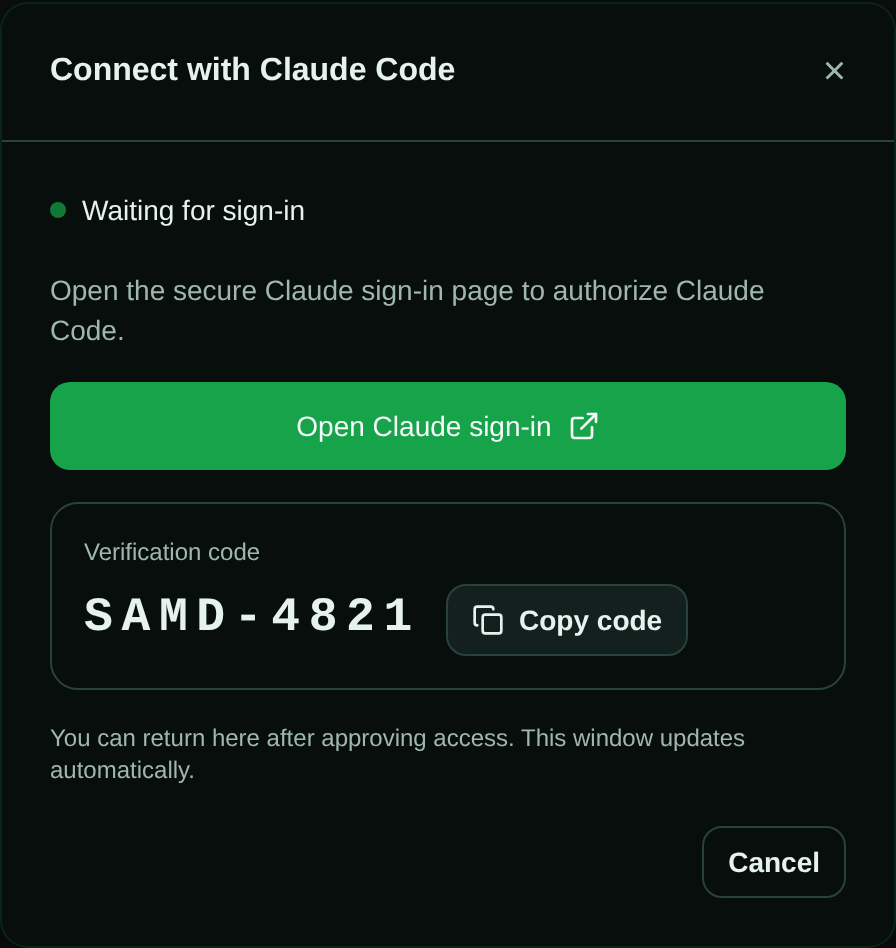
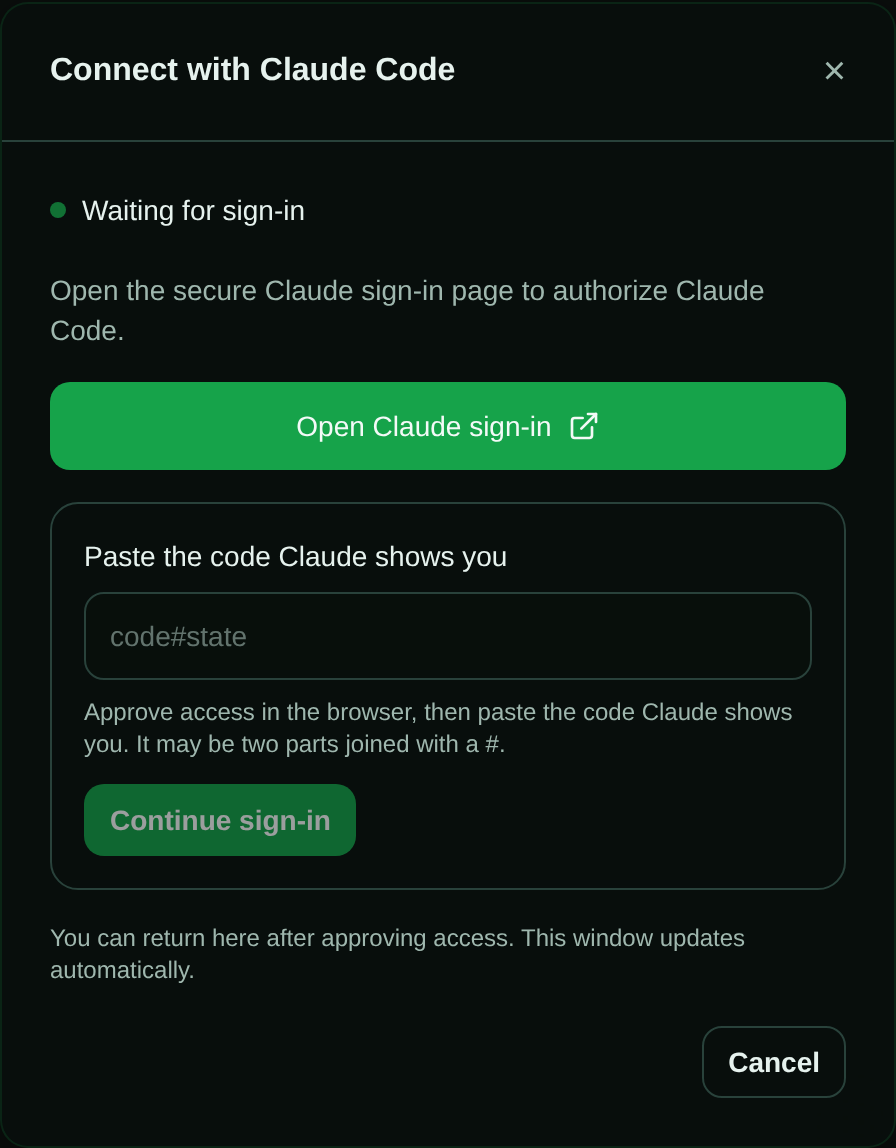
fix: refresh Claude guided login after main drift

diff --git a/apps/api/tests/unit/durable-objects/credential-setup-session.test.ts b/apps/api/tests/unit/durable-objects/credential-setup-session.test.ts
@@ -259,14 +259,14 @@ function createFakeSandbox() {
 }
 
 // eslint-disable-next-line @typescript-eslint/no-explicit-any
-function createDO(): {
+function createDO(envOverrides: Partial<Env> = {}): {
   instance: InstanceType<typeof CredentialSetupSession>;
   ctx: any;
   database: ReturnType<typeof createFakeDatabase>;
 } {
   const ctx = createFakeCtx();
   const database = createFakeDatabase();
-  const env = { DATABASE: database } as unknown as Env;
+  const env = { DATABASE: database, ...envOverrides } as unknown as Env;
   // eslint-disable-next-line @typescript-eslint/no-explicit-any
   const instance = new CredentialSetupSession(ctx as any, env);
   return { instance, ctx, database };
@@ -424,7 +424,11 @@ describe('CredentialSetupSession — alarm() provisioning step', () => {
   });
 
   it('provisions Claude Code with an isolated CLAUDE_CONFIG_DIR and optional code', async () => {
-    const { instance } = createDO();
+    const { instance } = createDO({
+      CLAUDE_SETUP_ENTER_DELAY_MS: '1100',
+      CLAUDE_SETUP_EXCHANGE_TIMEOUT_MS: '125000',
+      CLAUDE_SETUP_REJECTION_SETTLE_MS: '450',
+    });
     await Promise.resolve();
     const fakeSandbox = createFakeSandbox();
     fakeSandbox.readFile.mockImplementation(async (path: string) => ({
@@ -460,6 +464,12 @@ describe('CredentialSetupSession — alarm() provisioning step', () => {
     );
     expect(fakeSandbox.exec).toHaveBeenCalledWith(
       expect.stringContaining('sam-claude-setup-token.mjs'),
+      expect.objectContaining({ timeout: expect.any(Number) })
+    );
+    expect(fakeSandbox.exec).toHaveBeenCalledWith(
+      expect.stringContaining(
+        "CLAUDE_SETUP_ENTER_DELAY_MS='1100' CLAUDE_SETUP_EXCHANGE_TIMEOUT_MS='125000' CLAUDE_SETUP_REJECTION_SETTLE_MS='450'"
+      ),
       expect.objectContaining({ timeout: expect.any(Number) })
     );
 

diff --git a/apps/api/src/durable-objects/credential-setup-session/index.ts b/apps/api/src/durable-objects/credential-setup-session/index.ts
@@ -5,7 +5,7 @@
  * One DO per setup session (keyed by the session id, which is ALSO the sandbox
  * id — 1:1, never shared across users). The DO owns the lifecycle state machine:
  *
- *   creating -> provisioning -> waiting_for_user -> capturing -> saving
+ *   creating -> provisioning -> admitting -> waiting_for_user -> exchanging -> capturing -> saving
  *            -> completed | failed | cancelled | expired
  *
  * It provisions a per-session credential home, starts the provider setup driver,
@@ -460,10 +460,13 @@ export class CredentialSetupSession extends DurableObject<Env> {
       const exchangeTimeoutEnv = this.env.CLAUDE_SETUP_EXCHANGE_TIMEOUT_MS
         ? ` CLAUDE_SETUP_EXCHANGE_TIMEOUT_MS=${shellQuote(this.env.CLAUDE_SETUP_EXCHANGE_TIMEOUT_MS)}`
         : '';
+      const rejectionSettleEnv = this.env.CLAUDE_SETUP_REJECTION_SETTLE_MS
+        ? ` CLAUDE_SETUP_REJECTION_SETTLE_MS=${shellQuote(this.env.CLAUDE_SETUP_REJECTION_SETTLE_MS)}`
+        : '';
       return (
         `nohup env CLAUDE_CONFIG_DIR=${shellQuote(row.codex_home)} ` +
         'DISABLE_AUTOUPDATER=1 NO_COLOR=1 TERM=dumb' +
-        `${enterDelayEnv}${exchangeTimeoutEnv} ` +
+        `${enterDelayEnv}${exchangeTimeoutEnv}${rejectionSettleEnv} ` +
         `node /usr/local/bin/sam-claude-setup-token.mjs ${shellQuote(statePath)} ` +
         `${shellQuote(credentialPath)} ${shellQuote(verificationCodePath)} >/dev/null 2>&1 &`
       );

diff --git a/apps/web/tests/playwright/docs-screenshots.spec.ts b/apps/web/tests/playwright/docs-screenshots.spec.ts
@@ -74,8 +74,8 @@ const SETUP_SESSION = {
   status: 'waiting_for_user',
   agentType: 'claude-code',
   expiresAt: new Date(Date.now() + 1_200_000).toISOString(),
-  verificationUrl: 'https://claude.ai/oauth/device?client_id=sam-docs&code=' + 'x'.repeat(48),
-  userCode: 'SAMD-4821',
+  verificationUrl: 'https://claude.ai/oauth/device?client_id=sam-docs&challenge=' + 'x'.repeat(48),
+  userCode: null,
   errorCode: null,
   errorMessage: null,
 };
@@ -125,8 +125,8 @@ test('docs: guided subscription sign-in modal (Claude Code)', async ({ page }) =
 
   const dialog = page.getByRole('dialog', { name: 'Connect with Claude Code' });
   await expect(dialog.getByRole('link', { name: 'Open Claude sign-in' })).toBeVisible();
-  await expect(dialog.locator('code')).toHaveText(SETUP_SESSION.userCode);
-  await expect(dialog.getByRole('button', { name: 'Copy code' })).toBeVisible();
+  await expect(dialog.getByLabel('Paste the code Claude shows you')).toBeVisible();
+  await expect(dialog.getByRole('button', { name: 'Continue sign-in' })).toBeDisabled();
 
   // Make the backdrop fully opaque so the settings page behind the modal does not
   // bleed through the card's rounded corners in the docs screenshot.

diff --git a/apps/api/src/env.ts b/apps/api/src/env.ts
@@ -140,6 +140,7 @@ export interface Env extends WebhookTriggerEnv, TaskRecoveryEnv {
   CODEX_DEVICE_AUTH_REQUEST_TIMEOUT_MS?: string; // App-server JSON-RPC request timeout in ms (default: 30000)
   CLAUDE_SETUP_ENTER_DELAY_MS?: string; // Claude guided-login: delay before the separate Enter keypress after pasting the code into the sandboxed CLI (default: 1000)
   CLAUDE_SETUP_EXCHANGE_TIMEOUT_MS?: string; // Claude guided-login: max wait for the CLI code exchange after submission before failing visibly (default: 120000)
+  CLAUDE_SETUP_REJECTION_SETTLE_MS?: string; // Claude guided-login: wait for Ink to finish redrawing an OAuth failure before classifying it (default: 400)
   SETUP_SESSION_SWEEP_MAX_CANDIDATES?: string; // Max expired sessions torn down per cron sweep (default: 50)
   POOL_LEASE_BUFFER_MS?: string; // Grace beyond TTL before a leaked pool lease self-prunes (default: 300000 = 5 min)
   // Deployment signing keys (Ed25519 — separate from callback JWT)

diff --git a/apps/api/src/services/credential-setup-config.ts b/apps/api/src/services/credential-setup-config.ts
@@ -55,7 +55,7 @@ export function getPoolLeaseMaxAgeMs(env: Env): number {
 
 /**
  * Statuses that count as "active" (occupying the one-active-per-user slot and a
- * pool lease). Mirrors the partial unique index in migration 0097.
+ * pool lease). Mirrors the partial unique index updated in migration 0110.
  */
 export const ACTIVE_SETUP_STATUSES = [
   'creating',

diff --git a/apps/www/src/content/docs/docs/reference/configuration.md b/apps/www/src/content/docs/docs/reference/configuration.md
@@ -90,21 +90,24 @@ These variables affect the local `sam` CLI process only. They are not Worker run
 
 ## Feature Flags
 
-Codex guided subscription login has no feature-on environment variable. It is
+Codex and Claude Code guided subscription login have no feature-on environment variable. They are
 available by default when the deployment includes the `SANDBOX`,
 `CREDENTIAL_SETUP_SESSION`, and `SETUP_SESSION_POOL` Worker bindings generated by
 SAM's deployment configuration. Omitting one of those bindings disables the
 guided flow. `SANDBOX_ENABLED` continues to control separate administrative
-Sandbox runtime surfaces and is not required for guided Codex login.
+Sandbox runtime surfaces and is not required for guided login.
 
-| Variable                               | Default  | Description                                                                |
-| -------------------------------------- | -------- | -------------------------------------------------------------------------- |
-| `MAX_CONCURRENT_SETUP_SESSIONS`        | `2`      | Maximum concurrent guided credential-setup sessions.                       |
-| `SETUP_SESSION_TTL_MS`                 | `900000` | Guided session lifetime before automatic teardown.                         |
-| `SETUP_SESSION_CAPTURE_POLL_MS`        | `3000`   | Interval for checking device-login and credential-capture state.           |
-| `CODEX_DEVICE_AUTH_REQUEST_TIMEOUT_MS` | `30000`  | Timeout for each Codex app-server JSON-RPC request.                        |
-| `SETUP_SESSION_SWEEP_MAX_CANDIDATES`   | `50`     | Maximum expired sessions cleaned up by one scheduled sweep.                |
-| `POOL_LEASE_BUFFER_MS`                 | `300000` | Grace period after session TTL before a leaked capacity lease self-prunes. |
+| Variable                               | Default  | Description                                                                                         |
+| -------------------------------------- | -------- | --------------------------------------------------------------------------------------------------- |
+| `MAX_CONCURRENT_SETUP_SESSIONS`        | `2`      | Maximum concurrent guided credential-setup sessions.                                                |
+| `SETUP_SESSION_TTL_MS`                 | `900000` | Guided session lifetime before automatic teardown.                                                  |
+| `SETUP_SESSION_CAPTURE_POLL_MS`        | `3000`   | Interval for checking device-login and credential-capture state.                                    |
+| `CODEX_DEVICE_AUTH_REQUEST_TIMEOUT_MS` | `30000`  | Timeout for each Codex app-server JSON-RPC request.                                                 |
+| `CLAUDE_SETUP_ENTER_DELAY_MS`          | `1000`   | Delay before sending Enter as a separate stdin write after pasting Claude's browser-displayed code. |
+| `CLAUDE_SETUP_EXCHANGE_TIMEOUT_MS`     | `120000` | Maximum wait for Claude's CLI code exchange before a visible timeout.                               |
+| `CLAUDE_SETUP_REJECTION_SETTLE_MS`     | `400`    | Wait for Claude CLI Ink redraws to settle before classifying an OAuth error.                        |
+| `SETUP_SESSION_SWEEP_MAX_CANDIDATES`   | `50`     | Maximum expired sessions cleaned up by one scheduled sweep.                                         |
+| `POOL_LEASE_BUFFER_MS`                 | `300000` | Grace period after session TTL before a leaked capacity lease self-prunes.                          |
 
 The variables below tune the **Instant** (Cloudflare Container) runtime — how long a session stays awake, how long a wake may take, and how many snapshot restores are attempted before a session is failed. See [Instant Sessions](/docs/guides/instant-sessions/) for what each of these means to a user.
 

diff --git a/.claude/skills/env-reference/SKILL.md b/.claude/skills/env-reference/SKILL.md
@@ -97,6 +97,18 @@ See `apps/api/.env.example` for the full list. Key variables:
 - `DEPLOYMENT_RELEASE_RETENTION_LAST_RUN_KV_KEY` — KV interval marker (default: `cleanup:deployment-releases:last-run`)
 - `COMPOSE_IMAGE_ARTIFACT_CLEANUP_BATCH_SIZE` — Maximum abandoned compose archives deleted per daily run (default: `250`)
 
+### Guided Agent Credential Setup
+
+- `MAX_CONCURRENT_SETUP_SESSIONS` — Concurrent Cloudflare Sandbox setup-session cap (default: `2`)
+- `SETUP_SESSION_TTL_MS` — Setup-session lifetime before teardown (default: `900000`)
+- `SETUP_SESSION_CAPTURE_POLL_MS` — Device-login and credential-capture poll interval (default: `3000`)
+- `CODEX_DEVICE_AUTH_REQUEST_TIMEOUT_MS` — Codex app-server JSON-RPC request timeout (default: `30000`)
+- `CLAUDE_SETUP_ENTER_DELAY_MS` — Delay before sending Enter as a separate stdin write after Claude's browser-displayed code is pasted into the CLI (default: `1000`)
+- `CLAUDE_SETUP_EXCHANGE_TIMEOUT_MS` — Maximum wait for Claude's CLI exchange to finish after code submission (default: `120000`)
+- `CLAUDE_SETUP_REJECTION_SETTLE_MS` — Wait for Ink redraws to settle before classifying the Claude CLI OAuth error line (default: `400`)
+- `SETUP_SESSION_SWEEP_MAX_CANDIDATES` — Maximum expired setup sessions torn down per sweep (default: `50`)
+- `POOL_LEASE_BUFFER_MS` — Grace after the session TTL before a leaked setup-pool lease self-prunes (default: `300000`)
+
 ### Operational Control Loops
 
 - `CRON_SWEEPS_ENABLED_KV_KEY` — Fail-open KV brake key for the five-minute operational sweep (default: `control-loops:cron-enabled`)

diff --git a/apps/www/src/content/docs/docs/guides/agents.md b/apps/www/src/content/docs/docs/guides/agents.md
@@ -88,10 +88,10 @@ If you pay for **Claude Max/Pro** or a **ChatGPT** plan, you can connect that su
 
 1. Go to **Settings → Connections** (or **Settings → Agents**) and start the connect flow for Claude Code or OpenAI Codex.
 2. Choose the OAuth / subscription authentication method (rather than API key), then click **Connect with Claude Code** or **Connect with Codex**.
-3. SAM opens a secure sign-in page for the provider and shows a short **verification code**. Click the **Open sign-in** link, approve access on the provider's page, and enter the code when asked.
+3. Click the **Open sign-in** link and approve access on the provider's page. For Codex, enter the short code SAM displays when the provider asks. For Claude Code, copy the `code#state` value Claude displays, return to SAM, paste the complete value into the dialog, and click **Continue sign-in**.
 4. Leave the SAM window open — it updates on its own. When the provider confirms, the panel shows **Connected** and your subscription credential is saved, encrypted at rest.
 
-![The guided sign-in dialog for Claude Code: a status line reading "Waiting for sign-in", an "Open Claude sign-in" button, and a large copyable verification code with a "Copy code" button. No terminal is shown.](/images/docs/agent-guided-login.png)
+![The guided sign-in dialog for Claude Code: a status line reading "Waiting for sign-in", an "Open Claude sign-in" button, and a protected field for the complete browser-displayed code. No terminal is shown.](/images/docs/agent-guided-login.png)
 
 A few things worth knowing:
 

diff --git a/apps/www/src/content/docs/docs/guides/recent-product-changes.md b/apps/www/src/content/docs/docs/guides/recent-product-changes.md
@@ -99,7 +99,7 @@ Before anything reaches the model, SAM strips user IDs, IP addresses, user-agent
 
 ### Connect a subscription without a terminal
 
-Connecting Claude Code or OpenAI Codex to a paid subscription used to mean running `claude setup-token` or pasting the contents of `~/.codex/auth.json` — steps that are awkward on mobile and impossible without a local terminal. There's now a **guided sign-in**: choose **Connect with Claude Code** or **Connect with Codex**, open the provider's sign-in page, enter the short verification code SAM shows you, and the panel connects itself once the provider confirms.
+Connecting Claude Code or OpenAI Codex to a paid subscription used to mean running `claude setup-token` or pasting the contents of `~/.codex/auth.json` — steps that are awkward on mobile and impossible without a local terminal. There's now a **guided sign-in**: choose **Connect with Claude Code** or **Connect with Codex** and open the provider's sign-in page. Codex uses the short code SAM displays; Claude displays a `code#state` value that you paste back into SAM. The panel connects itself once the provider confirms.
 
 The manual token/`auth.json` fields are still there as a fallback, but you no longer need them for the common case. See [Connecting a subscription with guided sign-in](/docs/guides/agents/#connecting-a-subscription-with-guided-sign-in).
 
